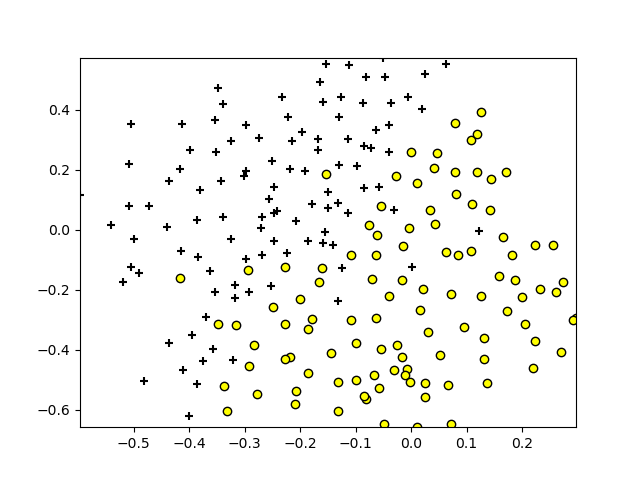
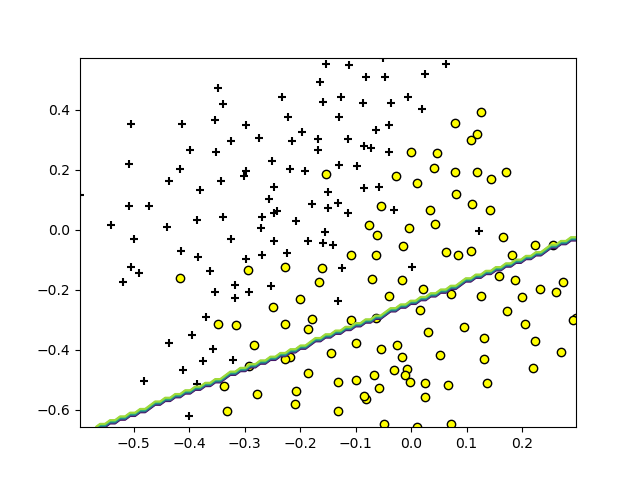
Parte facil de la practica 6

diff --git a/Practica6/p6/Practica6.py b/Practica6/p6/Practica6.py
@@ -24,7 +24,7 @@ def parte1():
     svm = SVC(kernel='linear' , C=100.0)
     svm.fit(X, y )
 
-    visualize_boundary(X,y,svm, "parte1C100")
+    mostrar_grafica(X,y,svm)
 
 def parte2():
      #Obtenemos los datos con los que vamos a trabajar
@@ -37,7 +37,7 @@ def parte2():
     #Utilizo la SVM para que me saque una boundary
     svm = SVC(kernel='rbf' , C=C, gamma=1 / ( 2 * sigma**2) )    
     svm.fit(X, y )
-    visualize_boundary(X,y,svm, "parte2")
+    mostrar_grafica(X,y,svm)
 
 
 def parte3():
@@ -52,43 +52,49 @@ def parte3():
     sigma = 0.1
     #Utilizo la SVM para que me saque una boundary
 
-    values = np.array([ 0.01, 0.03, 0.003, 0.1, 0.3, 1, 3, 10, 30])
-    scores = np.zeros((len(values), len(values)))
-    indexes = np.array([0,0])
-    minScore = np.Inf
+    C_vec = [0.01, 0.03, 0.1, 0.3, 1, 3, 10, 30]
+    sigma_vec = [0.01, 0.03, 0.1, 0.3, 1, 3, 10, 30]
+    scores = np.zeros((len(C_vec), len(sigma_vec)))
+    best = np.array([0.,0.])
+    minScore = -1
     #saco los aciertos para cada uno de los casos de prueba
-    for i in range(len(values)): #for que recorre las Cs
-        for j in range(len(values)): #for que recorre las gammas
-            svm = SVC(kernel='rbf' , C= values[i], gamma=1 / ( 2 * values[j] **2) )    
+    for i in range(len(C_vec)): #for que recorre las Cs
+        for j in range(len(sigma_vec)): #for que recorre las gammas
+            svm = SVC(kernel='rbf' , C= C_vec[i], gamma=1 / ( 2 * sigma_vec[j] **2) )    
             svm.fit(X, y )
             newScore = svm.score(xVal,yVal)
             scores[i][j] = newScore
-            if newScore <= minScore:
+            #Si he conseguido un mejor porcentage me quedo con ela configuracion
+            if newScore > minScore:
                 minScore = newScore
-                indexes[0]= i
-                indexes[1]= j
+                best[0]= C_vec[i]
+                best[1]= sigma_vec[j]
 
-    svm = SVC(kernel='rbf' , C= values[indexes[0]], gamma=1 / ( 2 * values[indexes[1]] **2) )    
+    svm = SVC(kernel='rbf' , C=  best[0], gamma=1 / ( 2 * best[1] **2) )    
     svm.fit(X, y)
-    visualize_boundary(X,y,svm, "parte3")
+    mostrar_grafica(X,y,svm)
 
 
 
 
-def visualize_boundary(X, y, svm, file_name):
+def mostrar_grafica(X, y, svm):
+    #generamos multiples puntos entre medias del minimo y maximo de los valores
     x1 = np.linspace(X[:, 0].min(), X[:, 0].max(), 100)
     x2 = np.linspace(X[:, 1].min(), X[:, 1].max(), 100)
+
+    #preparamos una grid con los nuevos datos obtenidos
     x1, x2 = np.meshgrid(x1, x2)
     yp = svm.predict(np.array([x1.ravel(), x2.ravel()]).T).reshape(x1.shape)
     pos = (y == 1).ravel()
     neg = (y == 0).ravel()
+
+    #generamos la figura y mostramos los datos 
     plt.figure()
     plt.scatter(X[pos, 0], X[pos, 1], color='black', marker='+')
     plt.scatter(
     X[neg, 0], X[neg, 1], color='yellow', edgecolors='black', marker='o')
     plt.contour(x1, x2, yp)
-    plt.savefig(file_name)
-    plt.close()
+    plt.show()
 
 
 
